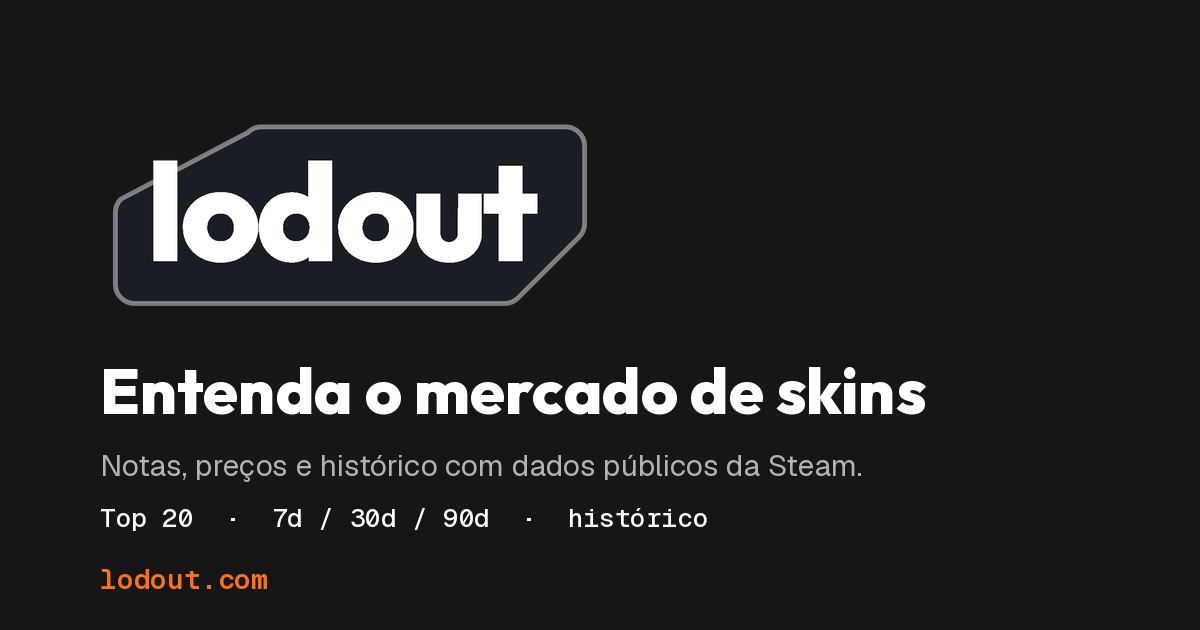
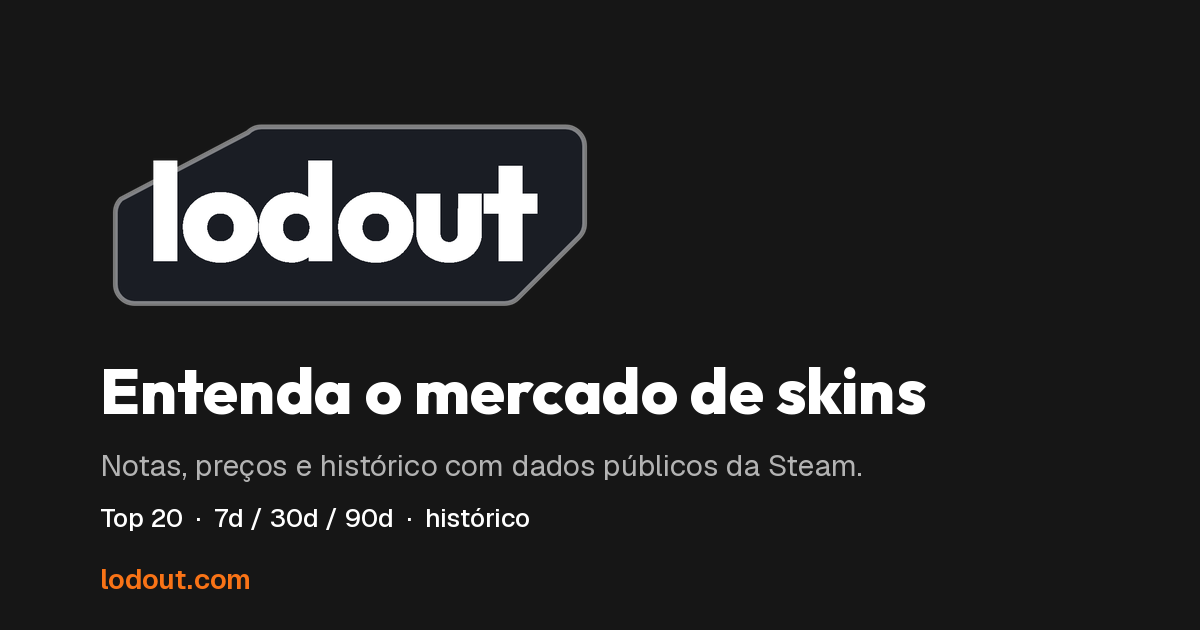
Cartão de compartilhamento: números na Geist, sem Geist Mono
Nota, preço e domínio do og-image e do cartão de cada item saem da
Geist Mono para a Geist, como no site. og-image.png regenerado com
scripts/gerar_og_image.py; cache dos cartões de item vai para v7.

Claude-Session: https://claude.ai/code/session_017sM22vPk2b77LTLZDB1cBK

Changed region(s): [[0.0925, 0.7841, 0.5858, 0.8444], [0.0617, 0.9048, 0.2467, 0.9349]]

diff --git a/lodout/public_site/og_cards.py b/lodout/public_site/og_cards.py
@@ -2,7 +2,7 @@
 é colado no Discord, WhatsApp, X etc.
 
 - `cartao_padrao()`: marca oficial "Escura Alto Contraste" (sem TM),
-  fundo do tema e texto curto em Outfit / Geist / Geist Mono. Gera o
+  fundo do tema e texto curto em Outfit / Geist. Gera o
   `static/og-image.png` (via scripts/gerar_og_image.py) usado pelas
   páginas sem imagem própria.
 - `cartao_item(...)`: um por item, com ícone, nome, nota, preço e a cor
@@ -10,8 +10,8 @@
   local): gerar a prévia nunca consulta a Steam nem o CDN dela.
 
 Pillow já é dependência do site (icon_cache.py); as fontes são as mesmas
-que o site serve (static/fonts): Outfit no título, Geist no texto e
-Geist Mono nos números.
+que o site serve (static/fonts): Outfit no título e Geist no texto e
+nos números (desde 27/11, como no site: sem a Geist Mono).
 """
 from __future__ import annotations
 
@@ -28,7 +28,6 @@ LARGURA, ALTURA = 1200, 630
 _FONTES = {
     "outfit": Path(__file__).parent / "static" / "fonts" / "outfit-latin.woff2",
     "geist": Path(__file__).parent / "static" / "fonts" / "geist-latin.woff2",
-    "mono": Path(__file__).parent / "static" / "fonts" / "geist-mono-latin.woff2",
 }
 
 # Mesmas cores do tema (style.css :root e .raridade-*, .nota-*).
@@ -52,8 +51,8 @@ _CACHE_MAX_ARQUIVOS = 800
 
 def _fonte(tamanho: int, peso: int = 400,
            familia: str = "geist") -> ImageFont.FreeTypeFont:
-    """Fonte do cartão. `mono` é monoespaçada, então os algarismos já
-    ficam tabulares sem depender de feature OpenType."""
+    """Fonte do cartão. Cada número aparece sozinho (nota, preço), então
+    não precisa de algarismos tabulares."""
     f = ImageFont.truetype(str(_FONTES[familia]), tamanho)
     try:
         f.set_variation_by_axes([peso])
@@ -121,7 +120,7 @@ def _png(img: Image.Image) -> bytes:
 
 def cartao_padrao() -> bytes:
     """Cartão padrão: fundo #161616, marca oficial sem TM, título curto
-    em Outfit e uma linha de dados em Geist / Geist Mono. Sem faixas ou
+    em Outfit e uma linha de dados em Geist. Sem faixas ou
     brilhos: o texto e a marca são os únicos elementos."""
     img = Image.new("RGB", (LARGURA, ALTURA), _FUNDO)
     d = ImageDraw.Draw(img)
@@ -134,8 +133,8 @@ def cartao_padrao() -> bytes:
     d.text((100, 445), "Notas, preços e histórico com dados públicos da Steam.",
            font=_fonte(30, 400), fill=_TEXTO_FRACO)
     d.text((100, 500), "Top 20  ·  7d / 30d / 90d  ·  histórico",
-           font=_fonte(26, 500, "mono"), fill=_TEXTO)
-    d.text((100, ALTURA - 70), "lodout.com", font=_fonte(28, 600, "mono"),
+           font=_fonte(26, 500), fill=_TEXTO)
+    d.text((100, ALTURA - 70), "lodout.com", font=_fonte(28, 600),
            fill=_LARANJA)
     return _png(img)
 
@@ -191,7 +190,7 @@ def cartao_item(nome_fmt: str, nota: "int | None", preco_fmt: str,
 
     y = max(y + 24, 330)
     if nota is not None:
-        f_nota = _fonte(120, 800, "mono")
+        f_nota = _fonte(120, 700)
         d.text((x, y), "Nota", font=_fonte(30, 500), fill=_TEXTO_FRACO)
         d.text((x, y + 34), f"{int(nota)}", font=f_nota,
                fill=_CORES_NOTA[_nota_classe(nota)])
@@ -203,11 +202,11 @@ def cartao_item(nome_fmt: str, nota: "int | None", preco_fmt: str,
             fim_nota = x + f_nota.getlength(f"{int(nota)}")
         px = max(x + 300, int(fim_nota) + 50)
         tam = 56
-        while tam > 34 and _fonte(tam, 700, "mono").getlength(preco_fmt) > LARGURA - 60 - px:
+        while tam > 34 and _fonte(tam, 700).getlength(preco_fmt) > LARGURA - 60 - px:
             tam -= 2
         d.text((px, y), "Preço", font=_fonte(30, 500), fill=_TEXTO_FRACO)
         d.text((px, y + 62 + (56 - tam) // 2), preco_fmt,
-               font=_fonte(tam, 700, "mono"), fill=_TEXTO)
+               font=_fonte(tam, 700), fill=_TEXTO)
 
     # Rodapé com a mesma marca do cartão padrão, sem TM.
     marca = Image.open(_LOGO).convert("RGBA")
@@ -218,7 +217,7 @@ def cartao_item(nome_fmt: str, nota: "int | None", preco_fmt: str,
     y_rod = ALTURA - 96
     img.paste(marca, (x, y_rod), marca)
     tx = x + larg_marca + 16
-    f_dominio = _fonte(26, 600, "mono")
+    f_dominio = _fonte(26, 600)
     d.text((tx, ALTURA - 70), "lodout.com", font=f_dominio, fill=_LARANJA)
     d.text((tx + f_dominio.getlength("lodout.com") + 12, ALTURA - 70),
            "· dados públicos da Steam", font=_fonte(26, 400),
@@ -238,7 +237,7 @@ def cartao_item_em_cache(nome_fmt: str, nota, preco_fmt: str,
     chave = hashlib.sha1("|".join([
         nome_fmt, str(nota), preco_fmt, raridade or "",
         hashlib.sha1(icone).hexdigest() if icone else "-",
-        "v6"]).encode("utf-8")).hexdigest()  # v6: marca/oficina de fontes (26/11)
+        "v7"]).encode("utf-8")).hexdigest()  # v7: números em Geist (27/11)
     pasta = _dir_cache()
     caminho = pasta / f"{chave}.png"
     try:

diff --git a/tests/test_design_contract.py b/tests/test_design_contract.py
@@ -162,14 +162,15 @@ def test_arquivos_da_fonte_comitados():
 
 def test_cartao_de_compartilhamento_usa_a_identidade_atual():
     """26/11: o og-image sai da marca oficial chanfrada, sem TM, com
-    título em Outfit e números monoespaçados, sobre o fundo do site."""
+    título em Outfit, sobre o fundo do site. Desde 27/11 os números
+    usam a Geist, como no site (sem fonte monoespaçada)."""
     from PIL import Image as _Img
     from lodout.public_site import og_cards
 
     origem = (STYLE.parent.parent / "og_cards.py").read_text(encoding="utf-8")
-    for familia in ("outfit-latin.woff2", "geist-latin.woff2",
-                    "geist-mono-latin.woff2"):
+    for familia in ("outfit-latin.woff2", "geist-latin.woff2"):
         assert familia in origem
+    assert "geist-mono" not in origem
     assert og_cards._LOGO.name == "logo-escura-og.png"
     assert og_cards._LOGO.is_file()
     # A marca do cartão vem do mesmo partial do topo/rodapé (sem TM).
@@ -182,8 +183,7 @@ def test_cartao_de_compartilhamento_usa_a_identidade_atual():
     assert img.getpixel((0, 0)) == (22, 22, 22)
     assert all(img.getpixel((x, 4)) == (22, 22, 22)
                for x in range(0, og_cards.LARGURA, 50))
-    f_mono = og_cards._fonte(40, 500, "mono")
-    assert f_mono.getlength("1111") == f_mono.getlength("8888")
+    assert set(og_cards._FONTES) == {"outfit", "geist"}
 
 
 def test_titulos_outfit_700_e_escala_32_48_64():

diff --git a/lodout/public_site/changelog.py b/lodout/public_site/changelog.py
@@ -11,6 +11,7 @@ ENTRADAS = [
         "data": "2026-11-26",
         "titulo": "Coleta mais transparente",
         "itens": [
+            "A imagem que aparece ao compartilhar um link do Lodout (WhatsApp, Discord etc.) também saiu da fonte de código: nota, preço e endereço usam a mesma fonte do site.",
             "Ranking no celular: a lista cabia mal na tela e os cartões cortavam na direita (a nota de hoje ficava escondida). Agora cada cartão cabe inteiro na tela, com a nota de hoje à vista, e o que não cabe desce de linha.",
             "Números mais fáceis de ler: preços, notas e variações saíram da fonte de código (de letras todas da mesma largura) e passaram para a fonte do texto, com os algarismos alinhados em coluna. Textos como o nome da caixa, o risco e a liquidez também voltaram para a fonte normal.",
             "Nova página Como usar o Lodout: em 4 passos, como achar um item, ler a nota e o porquê, usar a encomenda sugerida e acompanhar o seu inventário. Ela aparece no topo da página inicial (“Novo aqui? Veja como usar o Lodout”) e no rodapé, em Entenda.",

diff --git a/DESIGN.md b/DESIGN.md
@@ -166,7 +166,7 @@ Paleta neutra escura com um único laranja de voz e três cores de significado.
 - **Preto da marca** (#000000): o fundo do bloco da logomarca. Só nela — o fundo das páginas é #0F1012 (26/11).
 - **Branco da marca** (#ffffff): as letras da logomarca e a inicial do símbolo. Não é cor de interface.
 - **Laranja da interface** (#f97316): links de destaque, anel de foco e o trecho preenchido de barras e medidores. Nunca para texto corrido.
-- **Logomarca oficial "Escura Alto Contraste"** (26/11, escolha do usuário): "lodout" minúsculo em branco (Outfit 800), sobre bloco #1A1D24 chanfrado com contorno branco 45%, sem TM. O SVG exato está em `templates/partials/_logo_svg.html` e vai inline no topo (`_logo.html`, 32px; 28px no celular) e no rodapé (`_rodape_links.html`, 34px). O mesmo desenho vale para o cartão de compartilhamento: `logo-escura-og.png` sai do partial via `scripts/gerar_assets_marca.py` e é usado por `og_cards.py`. A marca antiga de 25/11 segue em `static/logo-lodout.svg` só como histórico. O cartão de compartilhamento segue com fundo #161616 (asset gerado na CI, fora da rampa da página), título em Outfit e dados em Geist / Geist Mono. Não há versão 3D da marca: relevo, sombra, brilho e extrusão são usos proibidos.
+- **Logomarca oficial "Escura Alto Contraste"** (26/11, escolha do usuário): "lodout" minúsculo em branco (Outfit 800), sobre bloco #1A1D24 chanfrado com contorno branco 45%, sem TM. O SVG exato está em `templates/partials/_logo_svg.html` e vai inline no topo (`_logo.html`, 32px; 28px no celular) e no rodapé (`_rodape_links.html`, 34px). O mesmo desenho vale para o cartão de compartilhamento: `logo-escura-og.png` sai do partial via `scripts/gerar_assets_marca.py` e é usado por `og_cards.py`. A marca antiga de 25/11 segue em `static/logo-lodout.svg` só como histórico. O cartão de compartilhamento segue com fundo #161616 (asset gerado na CI, fora da rampa da página), título em Outfit e dados em Geist (sem Geist Mono desde 27/11). Não há versão 3D da marca: relevo, sombra, brilho e extrusão são usos proibidos.
 - **Ícones da aba e do app** (26/11): a mesma silhueta chanfrada sai de dois SVGs em `static/`. `favicon.svg` traz o monograma `l` em Outfit 800, bem centrado, e gera `favicon.ico` (16/32/48 px) e `favicon-16/32/48.png` com fundo transparente — é o que vale em abas e marcadores. `logo-escura-app.svg` traz `lodout` centralizado em um quadrado #080808 com margem de segurança, e gera `apple-touch-icon.png` (180 px), `icon-192.png` e `icon-512.png`. Todos os rasterizados vêm de `scripts/gerar_assets_marca.py`; nenhum PNG/ICO é editado à mão. No manifest, o ícone `any` usa a marca completa (`logo-escura-app.svg`) e os tamanhos fixos usam os PNGs gerados; no `<head>`, o monograma vale para abas e o PNG de 180 px para o iOS. Todos com `?v=` no manifest para furar o cache de 1 ano do `/static`. O CSP continua `default-src 'self'` e o service worker não foi alterado.
 - **Laranja de Ação** (rgba(249, 115, 22, 0.7)): fundo do botão principal e do item escolhido no seletor de período; o laranja translúcido sobre o preto dá contraste com texto branco sem gritar.
 - **Laranja Pressionado** (#b8480a): hover do botão principal.
